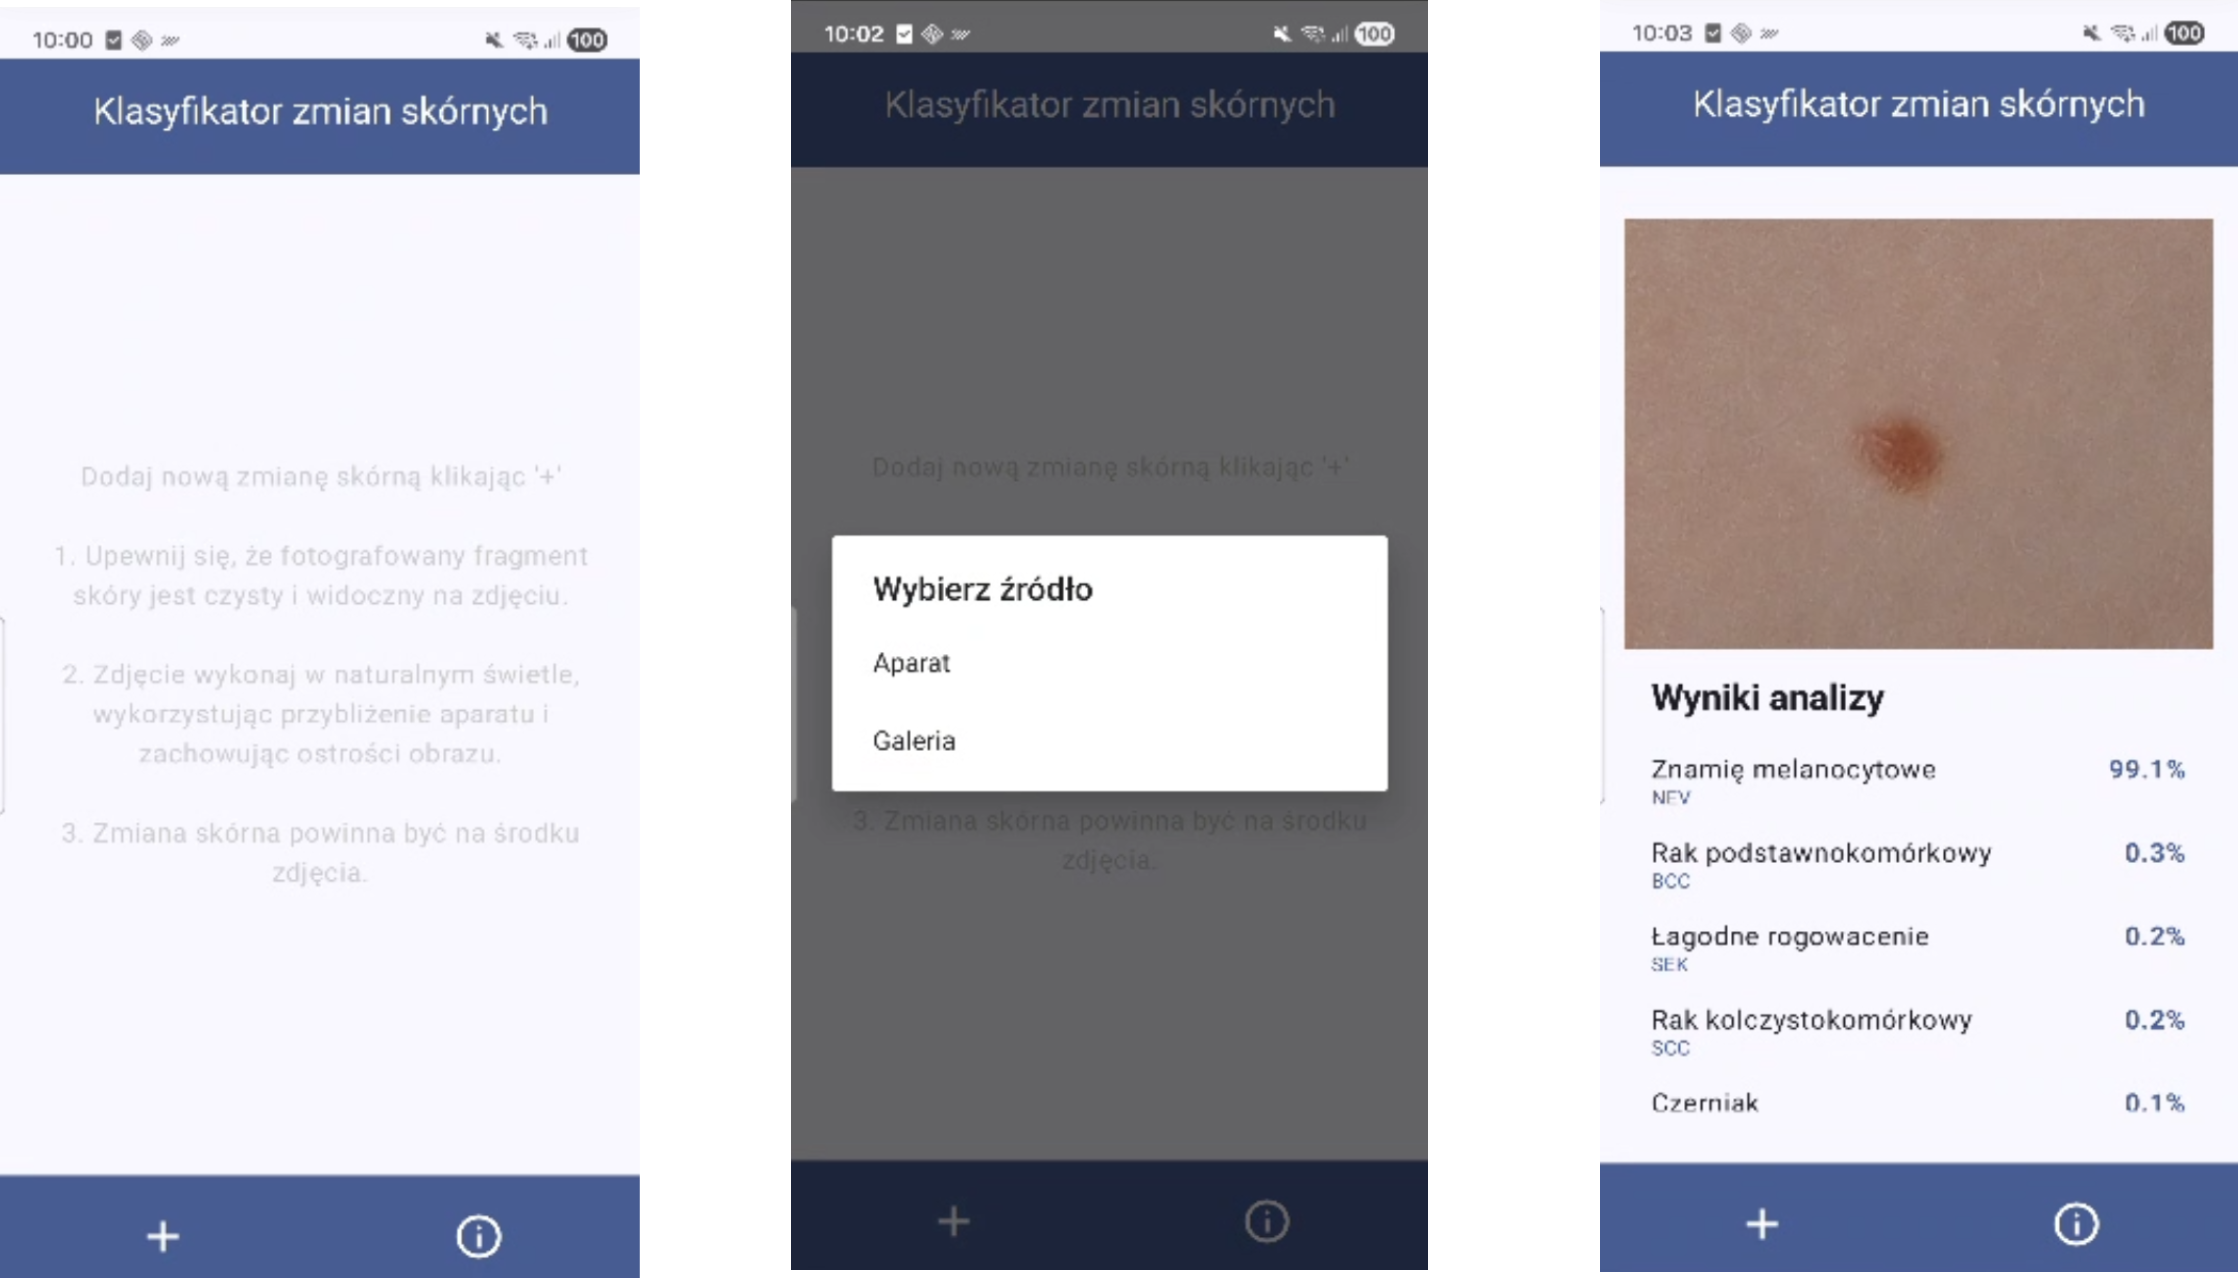
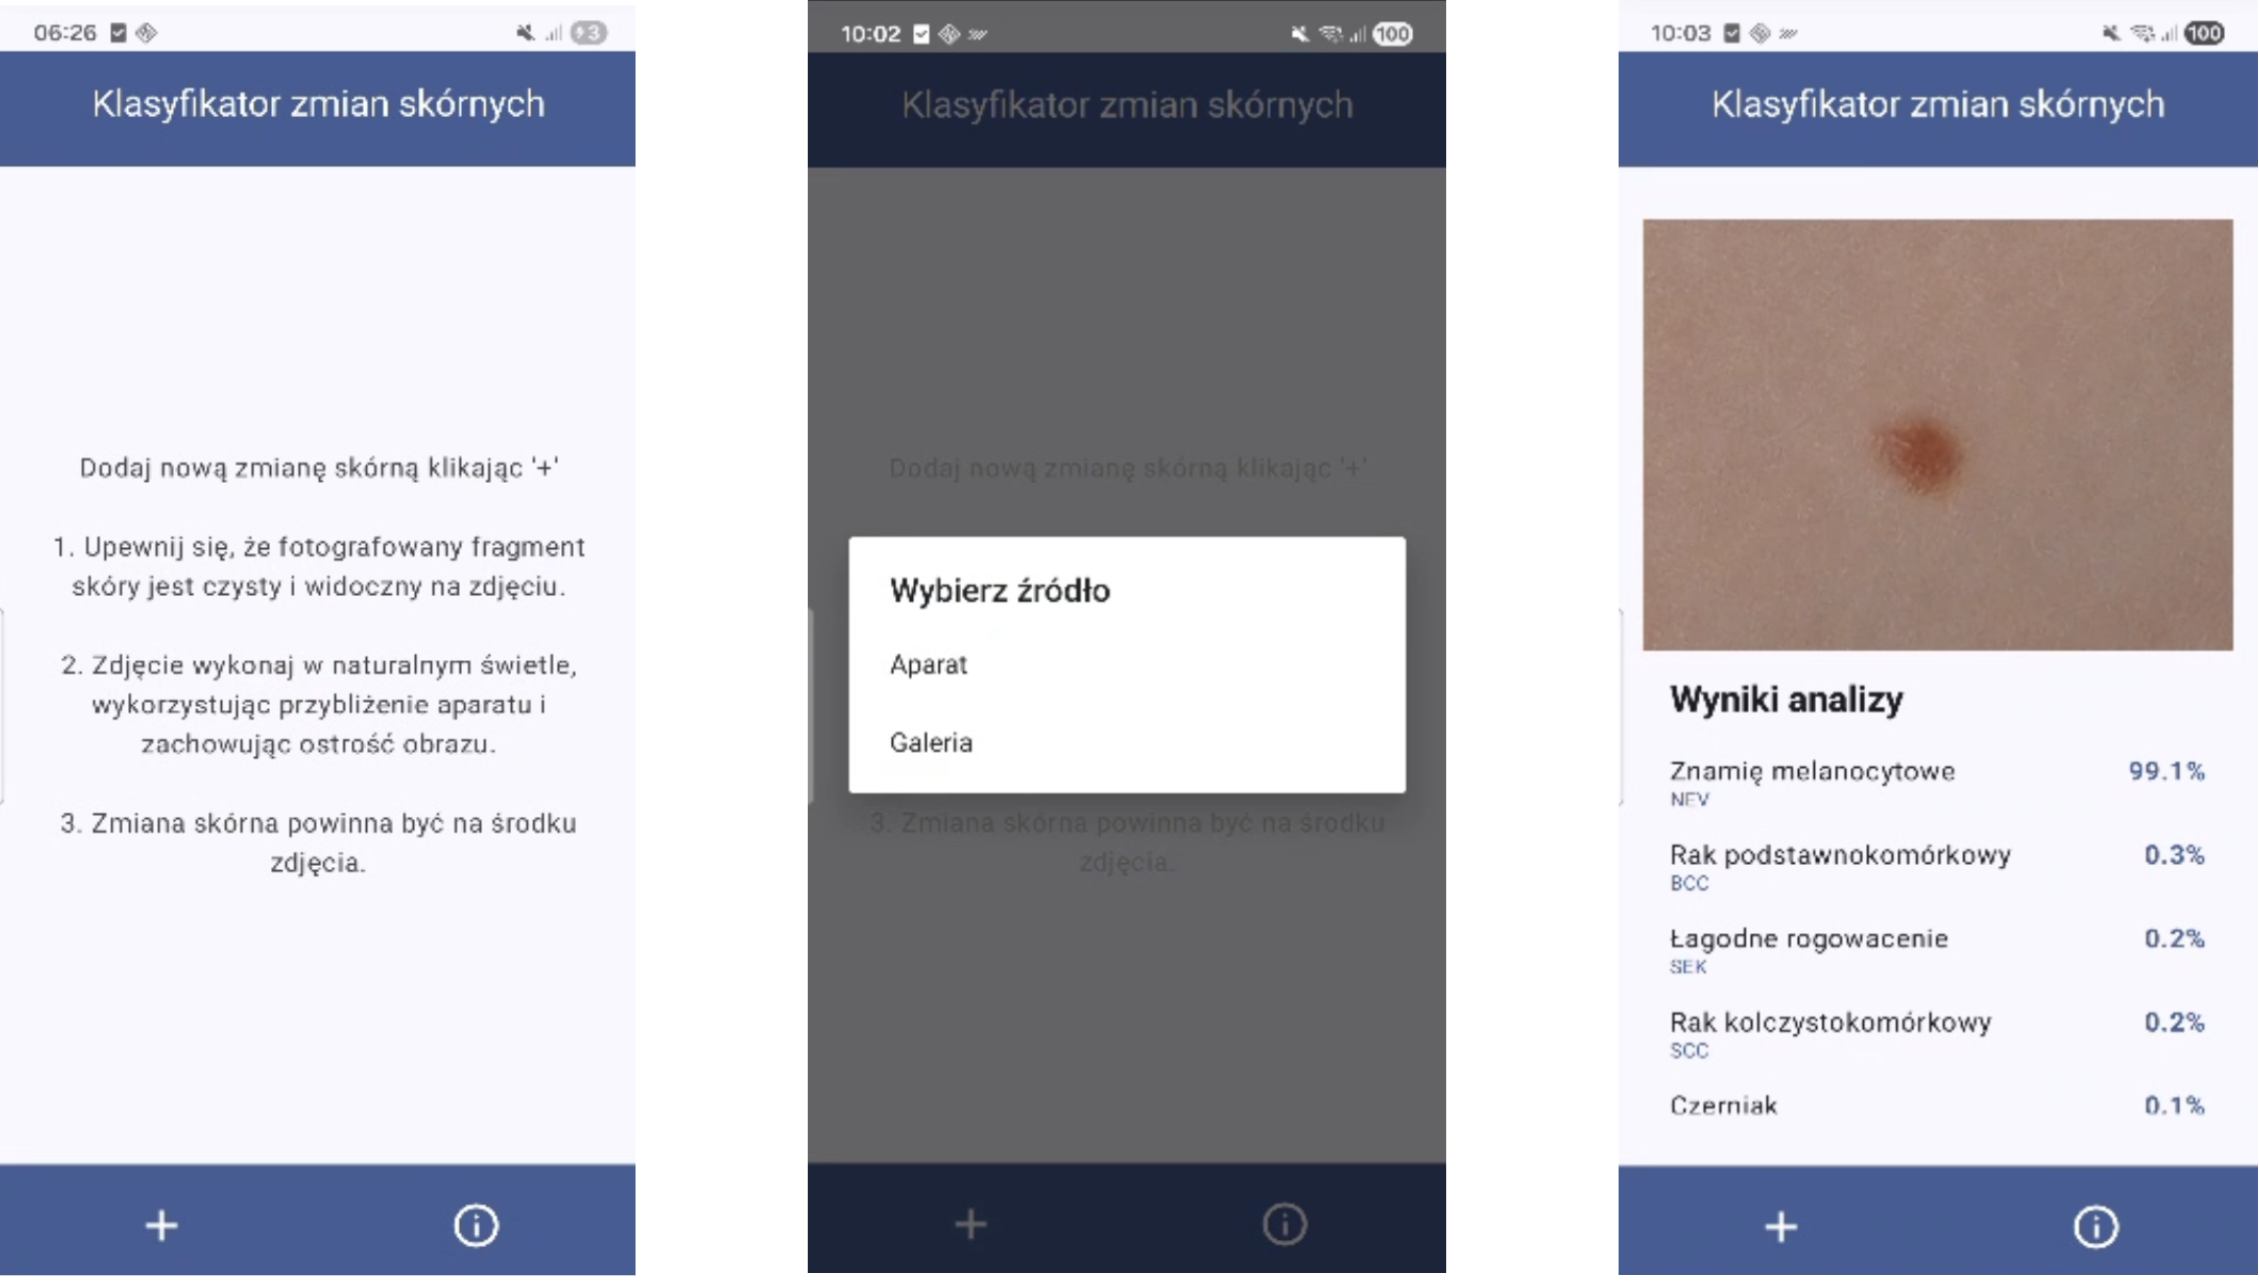
zamiana obrazow na nowsze wersje

diff --git a/kod/app/src/main/java/skin/lesion/detection/ui/screens/PredictionScreen.kt b/kod/app/src/main/java/skin/lesion/detection/ui/screens/PredictionScreen.kt
@@ -30,9 +30,9 @@ fun PredictionScreen(
             Text(
                 text = "Dodaj nową zmianę skórną klikając '+'\n\n" +
                         "1. Upewnij się, że fotografowany fragment skóry jest czysty i widoczny na zdjęciu.\n\n" +
-                        "2. Zdjęcie wykonaj w naturalnym świetle, wykorzystując przybliżenie aparatu i zachowując ostrości obrazu.\n\n" +
+                        "2. Zdjęcie wykonaj w naturalnym świetle, wykorzystując przybliżenie aparatu i zachowując ostrość obrazu.\n\n" +
                         "3. Zmiana skórna powinna być na środku zdjęcia.",
-                color = Color.LightGray,
+                color = Color.DarkGray,
                 textAlign = TextAlign.Center
             )
         }
